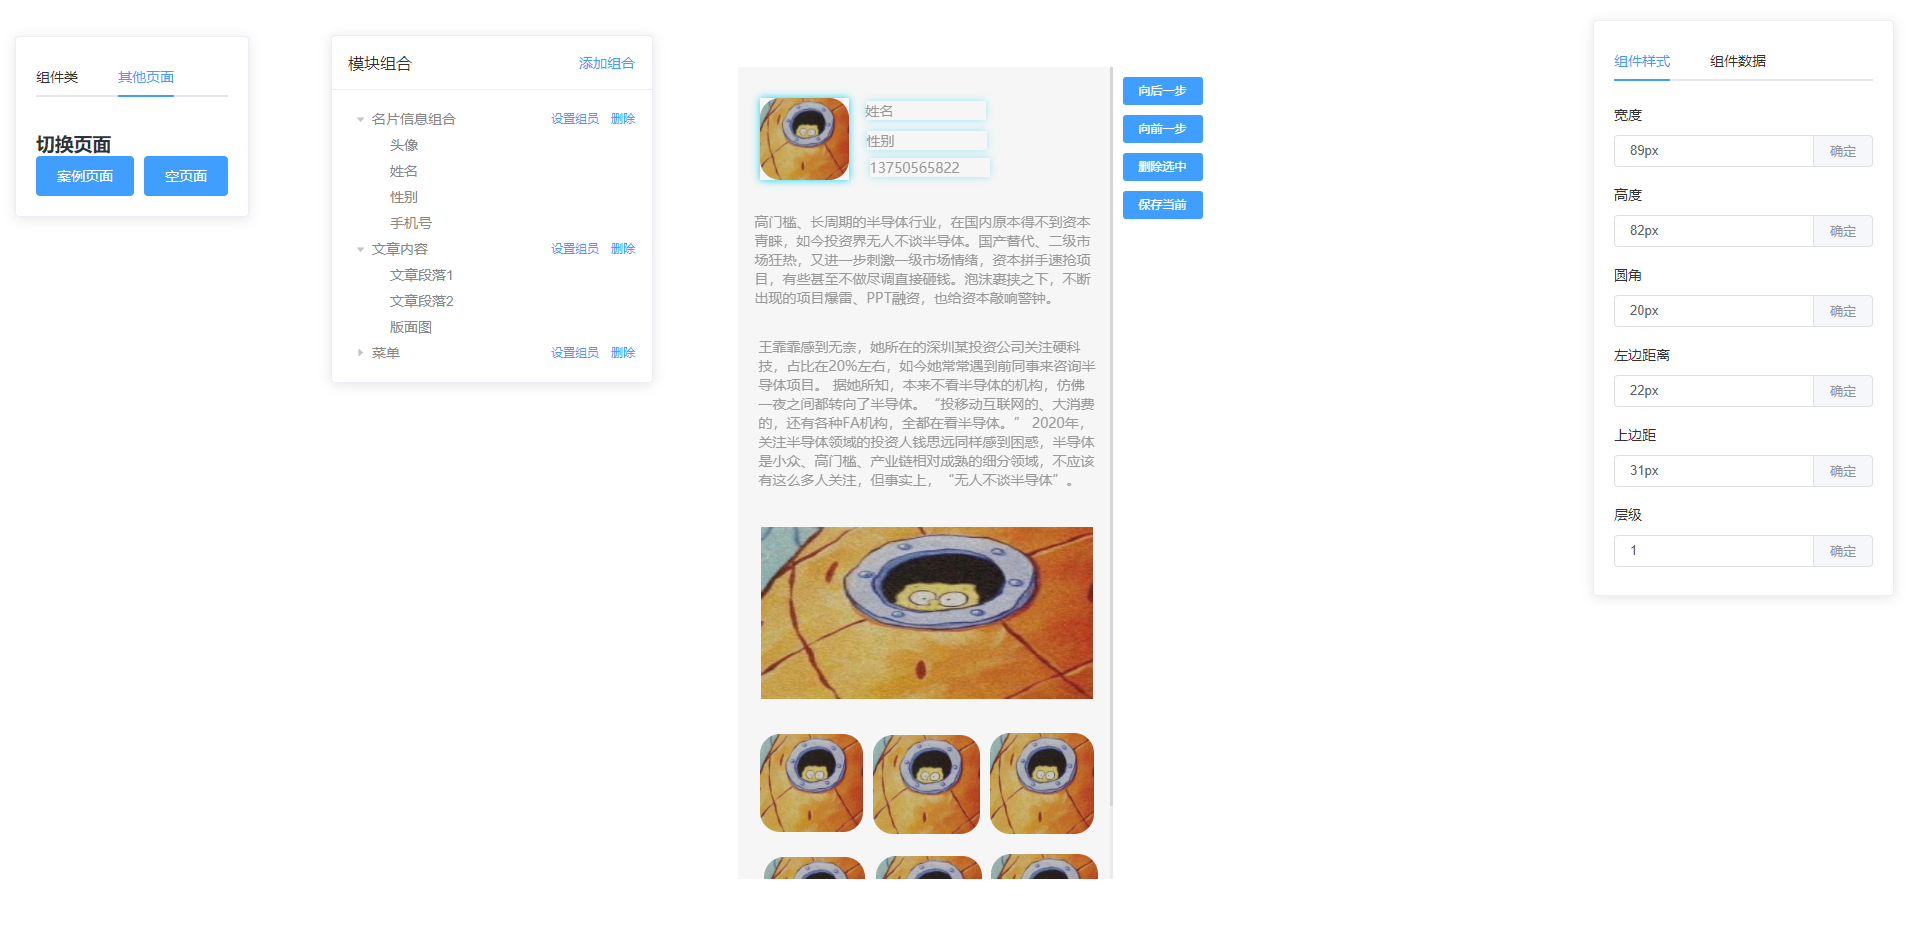
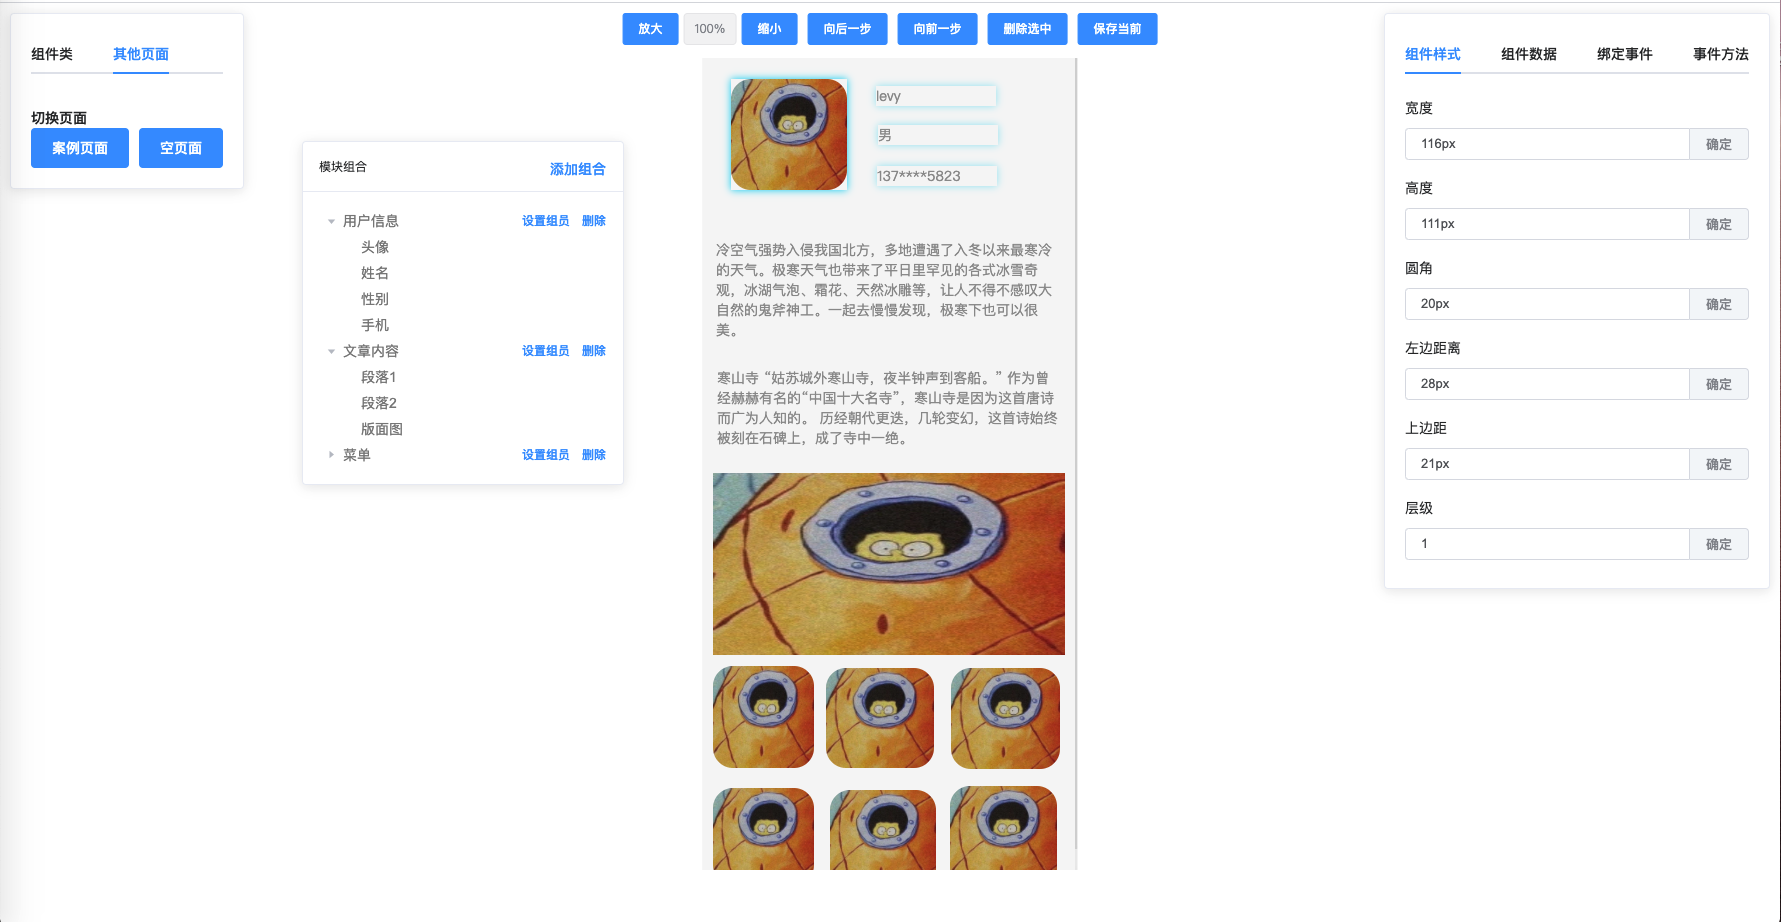
no message

diff --git a/README.md b/README.md
@@ -16,6 +16,8 @@
   
   ![demo图片](https://github.com/aXin-0810/vue-page-free-build/blob/master/1610013227657.jpg)
 
+  ![demo图片](https://github.com/aXin-0810/vue-page-free-build/blob/master/16100132276573.jpg)
+
 ## 第一步 安装依赖
 ```javascript
 
@@ -74,8 +76,10 @@ freePanel.component
 | controlPanel.setPositioning| key/修改的字段，value/修改值 | 绝对定位的组件修改定位位置，也可以通过拖拽移动，和缩放 |
 | controlPanel.setConfig | key/修改的字段，value/修改值 | 设置更多配置数据 |
 | controlPanel.setCurrentControl | id/组件id | 点击组件时设置当前可以操控的组件 |
+| controlPanel.setZoomValue | number/缩放值 | 设置当前面板缩放级别 |
 | controlPanel.listeningCurrentSwitch | callback/回调函数 | 监听当前操作组件切换变化 |
 | controlPanel.listeningCurrentChange | callback/回调函数 | 监听当前操作记录|
+| controlPanel.listeningZoomChange | callback/回调函数 | 监听面板缩放 |
 | controlPanel.rollBack | 无 | 返回上一步操作 |
 | controlPanel.nextStep | 无 | 前进一步操作|
 | controlPanel.echoComponent | list/列表数据  | 回显页面 |
